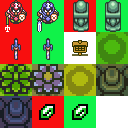
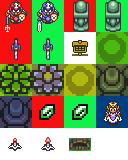
Trunk added

diff --git a/Motor2D/j1Map.cpp b/Motor2D/j1Map.cpp
@@ -671,6 +671,47 @@ iPoint j1Map::GetMinionsSpawn(uint team) const
 	return ret;
 }
 
+iPoint j1Map::GetTrunkPosition() const
+{
+	iPoint ret(-1, -1);
+	std::list<MapLayer*>::const_iterator item;
+	item = data.layers.begin();
+
+	for (; item != data.layers.end(); item++)
+	{
+		MapLayer* layer = *item;
+
+		if (layer->properties.Get("Entities", 0) == 0)
+			continue;
+
+		for (int y = 0; y < data.height; ++y)
+		{
+			for (int x = 0; x < data.width; ++x)
+			{
+				int id = layer->Get(x, y);
+				if (id != 0)
+				{
+					TileSet* tileset = (id > 0) ? GetTilesetFromTileId(id) : NULL;
+
+					if (tileset != NULL)
+					{
+						int relative_id = id - tileset->firstgid;
+
+						if (relative_id == 18)
+							ret = MapToWorld(x, y); 
+					}
+				}
+				if (ret != iPoint(-1, -1))
+					break;
+			}
+			if (ret != iPoint(-1, -1))
+				break;
+		}
+	}
+
+	return ret;
+}
+
 iPoint j1Map::GetShopPosition(uint team) const
 {
 	iPoint ret(-1, -1);

diff --git a/Motor2D/Trunk.cpp b/Motor2D/Trunk.cpp
@@ -1,0 +1,41 @@
+
+#include "Trunk.h"
+#include "GameObject.h"
+#include "j1Viewports.h"
+#include "j1FileSystem.h"
+
+Trunk::Trunk(iPoint _pos)
+{
+	pugi::xml_document doc;
+	App->LoadXML("trunk.xml", doc);
+
+	pugi::xml_node file = doc.child("file");
+
+	iPoint w_h(file.child("coords").child("rect").attribute("w").as_int(0), file.child("coords").child("rect").attribute("h").as_int(0));
+
+	game_object = new GameObject(iPoint(_pos.x + 10, _pos.y), w_h , App->cf->CATEGORY_NONCOLLISIONABLE, App->cf->MASK_SCENERY, pbody_type::p_t_trunk, 0);
+
+	game_object->SetTexture(game_object->LoadAnimationsFromXML(doc, "animations"));
+	game_object->SetAnimation("main"); 
+}
+
+
+bool Trunk::Draw(float dt)
+{
+	App->view->LayerBlit(2, game_object->GetTexture(), game_object->GetPos(), game_object->GetCurrentAnimationRect(dt));
+
+	return false;
+}
+
+
+
+bool Trunk::CleanUp()
+{
+	
+	return false;
+}
+
+Trunk::~Trunk()
+{
+
+}

diff --git a/Motor2D/MenuScene.cpp b/Motor2D/MenuScene.cpp
@@ -83,9 +83,13 @@ bool MenuScene::Start()
 
 	//Check Box 
 
-	options_checkbox = menu_window->CreateCheckBox(iPoint(0, 0), 44, 44, {404, 44, 44, 44}, { 404, 0, 44, 44 }, true, false);
+	options_checkbox = menu_window->CreateCheckBox(iPoint(0, 0), 44, 44, {404, 44, 44, 44}, { 404, 0, 44, 44 }, true);
 	options_checkbox->AddBox(iPoint(screen.w + 99, screen.h / 2 + 45), 44, 44, "fx");
 	options_checkbox->AddBox(iPoint(screen.w + 99, screen.h / 2 + 115), 44, 44, "music");
+
+	options_checkbox->SetBox(true, "fx"); 
+	options_checkbox->SetBox(true, "music");
+
 	options_checkbox->enabled = false;
 	
 	// ---------

diff --git a/Motor2D/j1Entity.cpp b/Motor2D/j1Entity.cpp
@@ -6,6 +6,7 @@
 #include "GameObject.h"
 #include "Entity.h"
 #include "Spell.h"
+#include "Trunk.h"
 #include "j1Spell.h"
 #include "Tower.h"
 #include "Functions.h"
@@ -181,6 +182,9 @@ Entity* j1Entity::CreateEntity(entity_name entity, iPoint pos)
 		break;
 	case tower:
 		ret = new Tower(pos);
+		break;
+	case trunk:
+		ret = new Trunk(pos);
 		break;
 	default:
 		break;

diff --git a/Motor2D/MainScene.h b/Motor2D/MainScene.h
@@ -3,6 +3,7 @@
 
 #include "Scene.h"
 #include "j1Gui.h"
+#include "Trunk.h"
 #include "j1Render.h"
 
 class GameObject;
@@ -79,6 +80,9 @@ private:
 	UI_Image*			rupiees_img_4 = nullptr;
 	UI_Image*			minimap_icon_4 = nullptr;
 	vector<UI_Image*>   habilities_4;
+
+	// Trunk
+	Trunk*				map_trunk = nullptr; 
 
 	vector<PhysBody*>	map_collisions;
 };

diff --git a/Motor2D/Trunk.h b/Motor2D/Trunk.h
@@ -1,0 +1,27 @@
+#pragma once
+#ifndef  _TRUNK_H_
+#define _TRUNK_H_
+
+#include "Entity.h"
+
+class Trunk : public Entity 
+{
+public: 
+
+	Trunk(iPoint pos);
+
+	// Draw and change animations
+	bool Draw(float dt);
+
+	// CleanUp
+	bool CleanUp();
+
+	~Trunk(); 
+
+private: 
+
+
+};
+
+#endif // ! _TRUNK_H_
+

diff --git a/Motor2D/j1Input.cpp b/Motor2D/j1Input.cpp
@@ -226,8 +226,8 @@ bool j1Input::CleanUp()
 	// Clean GamePads ------
 	for (std::vector<GamePad*>::iterator it = gamepads.begin(); it != gamepads.end(); it++) {
 
-		//SDL_GameControllerClose((*it)->pad);
-		//RELEASE(*it);
+		SDL_GameControllerClose((*it)->pad);
+		RELEASE(*it);
 	}
 	gamepads.clear();
 

diff --git a/Motor2D/j1Map.h b/Motor2D/j1Map.h
@@ -128,6 +128,9 @@ public:
 	// Return World spawn position for team #team minions
 	iPoint GetMinionsSpawn(uint team) const;
 
+	// Retun trunk's position
+	iPoint GetTrunkPosition() const;
+
 	//Return shop position in world cordinates
 	iPoint GetShopPosition(uint team) const;
 

diff --git a/Motor2D/j1Entity.h b/Motor2D/j1Entity.h
@@ -19,7 +19,7 @@ enum class pbody_type;
 
 enum entity_name
 {
-	e_n_null, link, minion, tower, castle, ganon, navi
+	e_n_null, link, minion, tower, castle, ganon, navi, trunk
 };
 
 class slow

diff --git a/Motor2D/MainScene.cpp b/Motor2D/MainScene.cpp
@@ -170,6 +170,8 @@ bool MainScene::Start()
 
 	CreateMapCollisions();
 
+	App->entity->CreateEntity(trunk, App->map->GetTrunkPosition());
+
 	return ret;
 }
 

diff --git a/Motor2D/CollisionFilters.h b/Motor2D/CollisionFilters.h
@@ -36,6 +36,7 @@ enum class pbody_type
 	p_t_npc,
 	p_t_tower,
 	p_t_tower_attack,
+	p_t_trunk
 };
 
 // Fixture enum
